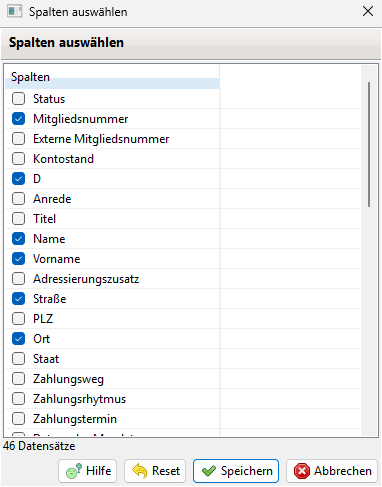
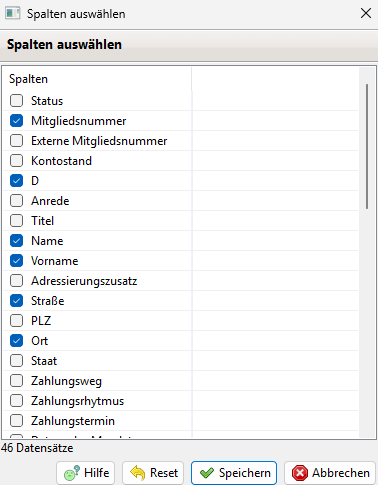
Updates

Changed region(s): [[0.0, 0.0, 1.0, 1.0]]

diff --git a/v/4.3/notes.md b/v/4.3/notes.md
@@ -100,7 +100,7 @@ Wird in einer Tabelle ein Text nicht vollständig angezeigt weil er länger ist 
 
 ### Spaltenauswahl über Menü
 
-Klickt man mit der rechten Maustaste auf die Kopfzeile in einer Tabelle, dann wird die Spaltenauswahl Liste angezeigt. Es kann dann direkt eine Spalte aktiviert oder deaktiviert werden.
+Klickt man mit der rechten Maustaste auf die Kopfzeile in einer Tabelle, dann wird die Spaltenauswahl Liste angezeigt. Es kann dann direkt eine Spalte aktiviert oder deaktiviert werden. Das funktioniert zumindest unter Linux.
 
 ### Zugeordnete Buchungen im Abrechnungslauf
 
@@ -133,4 +133,6 @@ Die einzelnen Änderungen sind:
 * Die Infobox bei Splitbuchungen wird nur noch angezeigt wenn mehr als eine Buchung selektiert wurde
 * Der Spaltenauswahl Dialog und die beiden CSV und PDF Export Dialoge bieten eine Reset Funktion
 * Beim Mitglied Import lässt sich auch die Mandatid importieren
+* Das Kommentarfeld von Buchungen lässt sich optional in der Buchungsliste einblenden
+* Die QR-Code Größe lässt sich jetzt individuell einstellen
 
